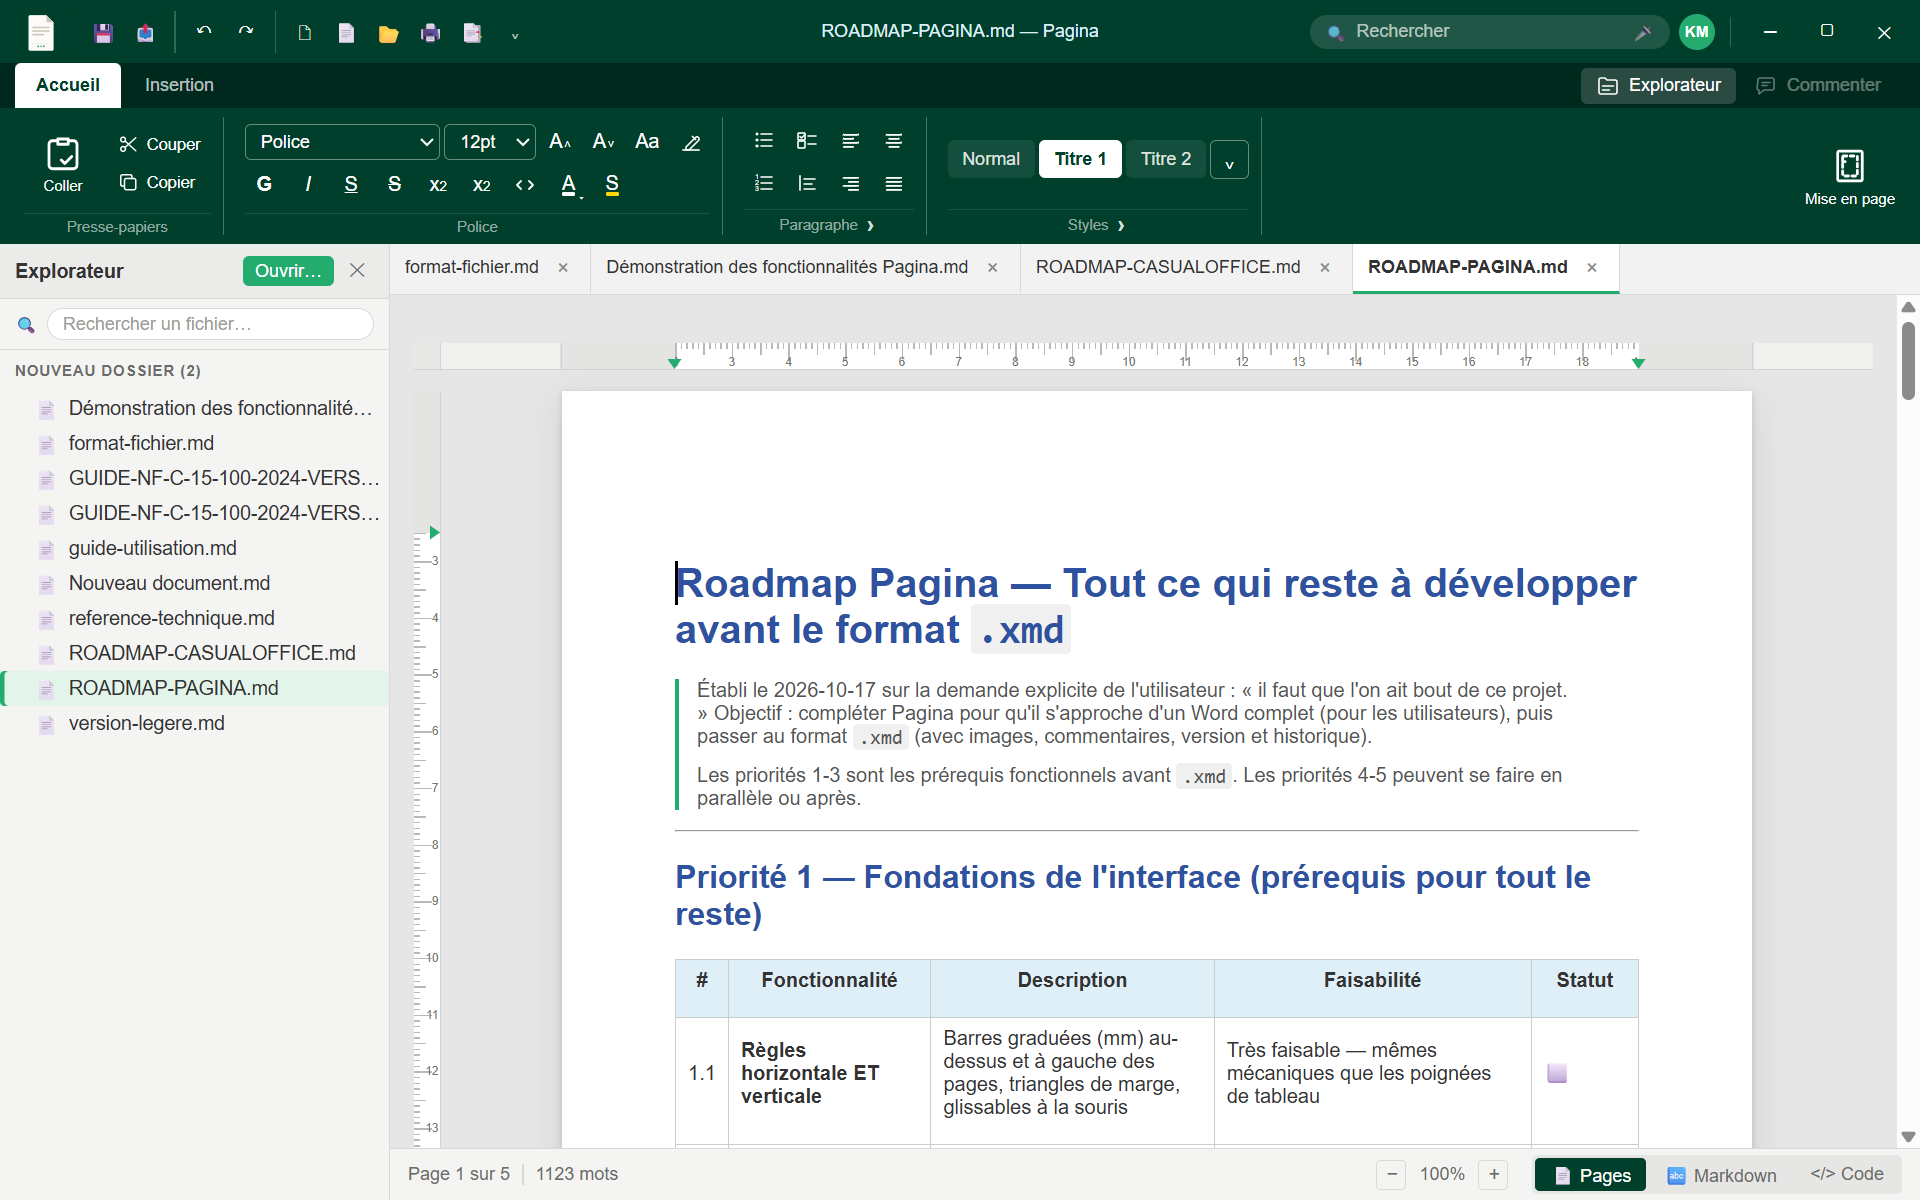
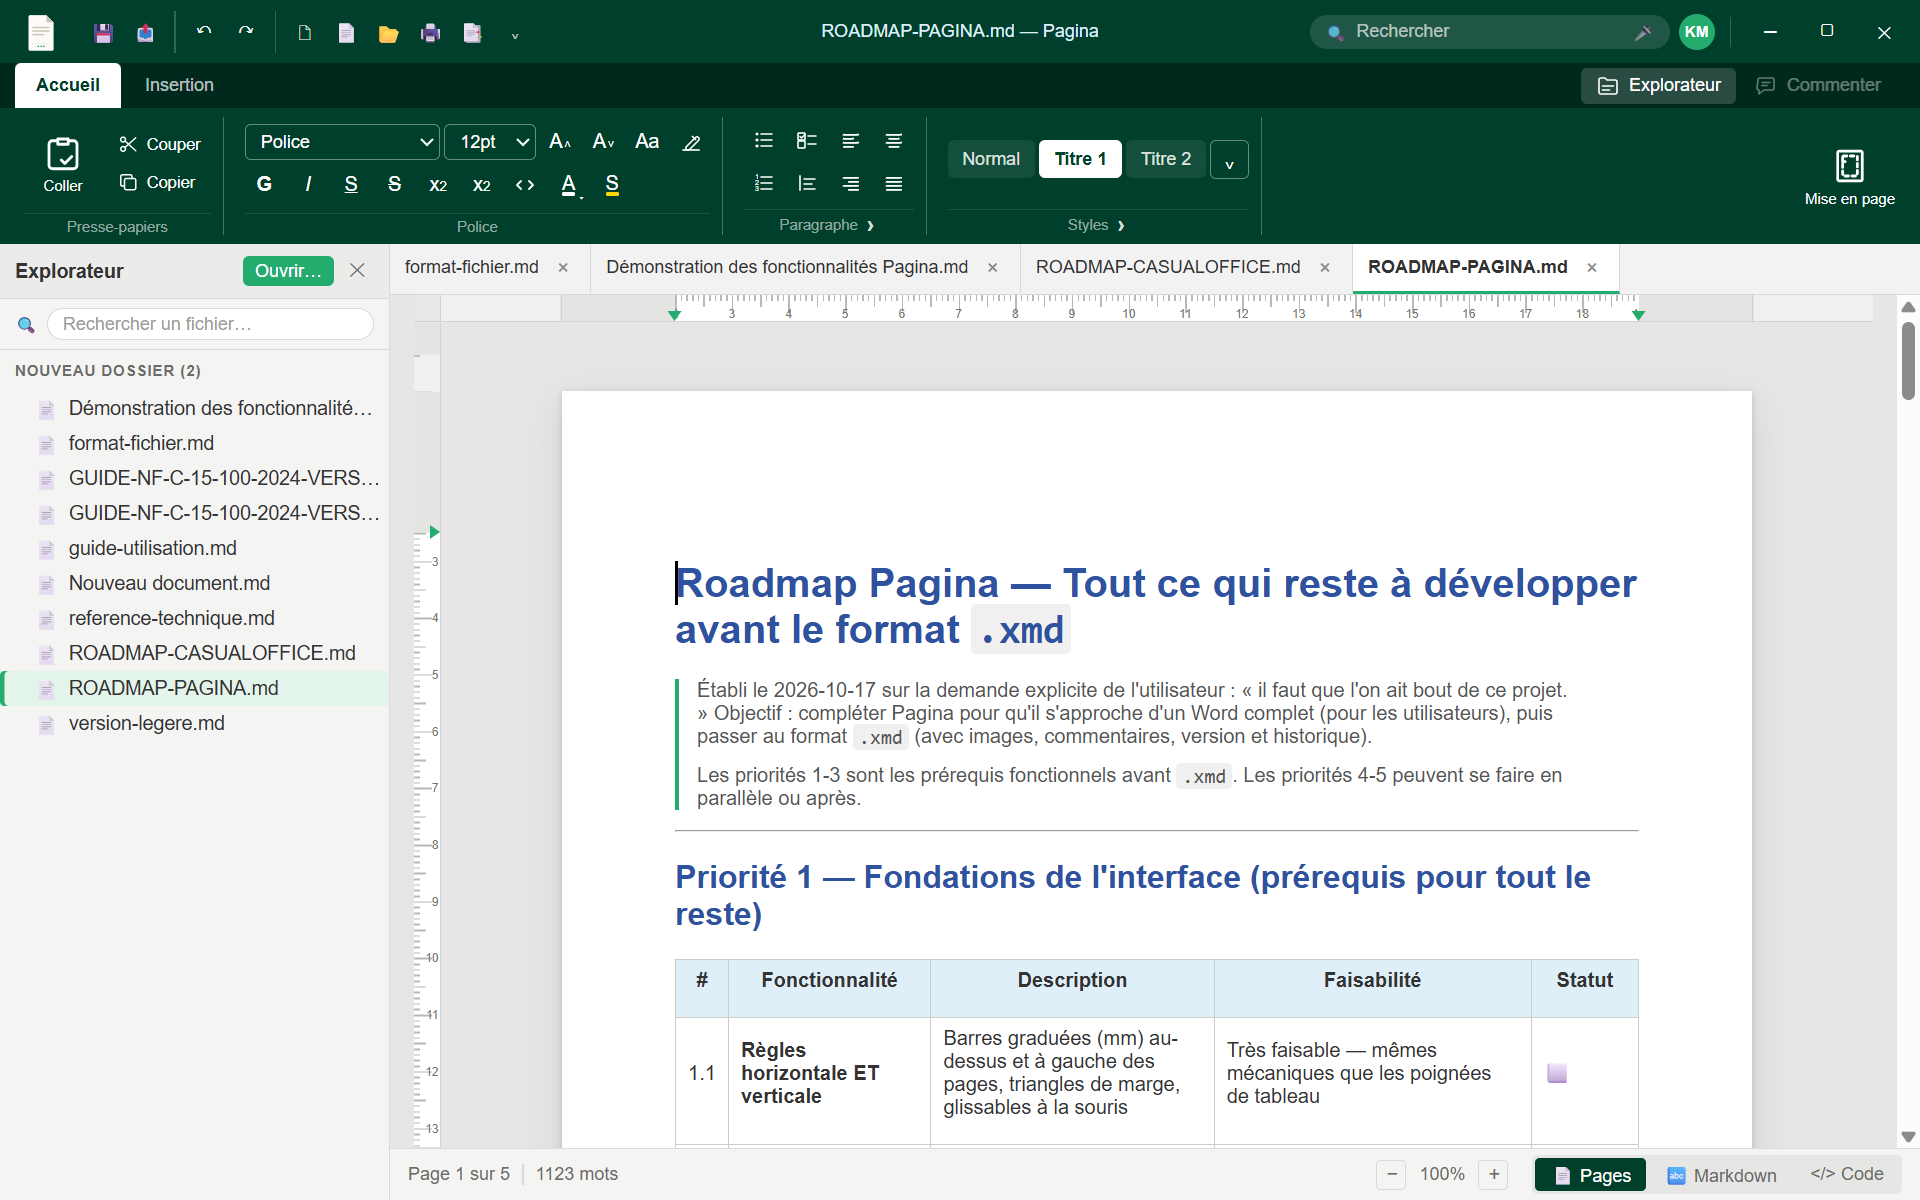
regles: correctifs regle colle en haut + marge basse visible (retour utilisateur)
1. Regle horizontale collee en haut : le padding-top (32px) du
   conteneur scrollable creait une bande grise au-dessus de la regle —
   un margin-top negatif ne servait a rien (le sticky ne tire jamais un
   element vers le haut, il ne fait que l'epingle au defilement).
   Le padding-top du wrap passe a 0, les 32px d'espacement sont rendus
   par le margin-bottom de la regle : la premiere page demarre toujours
   a 65px du haut (geometrie identique, curseur/selection intacts).
   Aucun impact impression (App.css force deja padding: 0).
2. Marge basse de la regle verticale enfin visible : la classe de base
   .xmd-ruler-margin posait top+bottom a 0 ; avec le height inline la
   position etait sur-contrainte et bottom etait ignore — la zone basse
   se collait en HAUT du motif (confondue avec la marge haute).
   top/bottom auto explicites (inline + classe -v).
3. Colonne verticale remontee juste sous la regle horizontale
   (margin-top: -46px), continue des le haut comme Word.

Verifie par Playwright/CDP : gap haut 0px, regle V collee sous la
regle H (1px), zone de marge basse rendue en bas du motif (94.5px sur
A4), alignements inchanges (zone H superposee a la page, motifs V sur
les bords de pages, au scroll 0 et pres du bas de page). 38 tests verts.

Generated by Mistral Vibe.

Changed region(s): [[0.3438, 0.2467, 0.875, 0.3083]]

diff --git a/src/ui/Editor/pagination/Ruler.css b/src/ui/Editor/pagination/Ruler.css
@@ -20,11 +20,17 @@
 /* --- Horizontale : pleine largeur du contenu, 18px, collée en haut.
  * Contient : le COIN (largeur de la règle verticale) puis la zone de page
  * centrée sur la même largeur que .xmd-canvas-frame (alignement sur les
- * pages quel que soit le zoom — c'était le bug « règle décalée/délarge »). */
+ * pages quel que soit le zoom — c'était le bug « règle décalée/délarge »).
+ * Collée en haut SANS marge négative : .xmd-page-wrap n'a plus de
+ * padding-top (voir MarkdownEditor.css) — un margin-top négatif serait de
+ * toute façon neutralisé (le sticky ne « tire » pas un élément vers le
+ * haut, il ne fait que l'épingler au défilement). Le margin-bottom
+ * (46px) rend l'espacement au-dessus de la première page : la page
+ * démarre à 19 + 46 = 65px du haut, comme avant l'arrivée des règles. */
 .xmd-ruler-h {
   height: 18px;
   top: 0;
-  margin-bottom: 14px;
+  margin-bottom: 46px;
   border-bottom: 1px solid #d0d3d4;
   display: flex;
 }
@@ -45,12 +51,17 @@
 }
 
 /* --- Verticale : 18px de large, collée à GAUCHE, sous la règle
- * horizontale (top = 18px + bordure). Sa HAUTEUR est posée par
- * MarkdownEditor (recomputeVRuler : hauteur du viewport moins la règle
- * horizontale) — pas en CSS, elle dépend du conteneur scrollable. */
+ * horizontale (top = 18px + bordure). margin-top NÉGATIF (= margin-bottom
+ * de .xmd-ruler-h) : la remonte JUSTE sous la règle horizontale, la colonne
+ * de règle est continue dès le haut (pas de bande grise intermédiaire) ;
+ * le calage des graduations sur la page est assuré par recomputeVRuler
+ * (MarkdownEditor.tsx), qui mesure les positions RÉELLES — il s'adapte
+ * seul à cette remontée. Sa HAUTEUR est posée par MarkdownEditor
+ * (viewport - règle h) — pas en CSS, elle dépend du conteneur scrollable. */
 .xmd-ruler-v {
   left: 0;
   top: 19px;
+  margin-top: -46px;
   flex: 0 0 auto;
   border-right: 1px solid #d0d3d4;
 }
@@ -135,9 +146,14 @@
   pointer-events: none;
 }
 
+/* Neutralise le top/bottom de la classe de base : la position verticale
+ * des zones de marge verticales est donnée par les styles inline du
+ * composant (top ou bottom + height). */
 .xmd-ruler-margin-v {
   left: 0;
   right: 0;
+  top: auto;
+  bottom: auto;
 }
 
 /* --- Triangles de marge (charte MBEF, comme Word) --- */

diff --git a/src/ui/Editor/pagination/Ruler.tsx b/src/ui/Editor/pagination/Ruler.tsx
@@ -165,9 +165,18 @@ export function VerticalRuler({
                 </span>
               ))}
           </div>
-          {/* Zones grises = marges */}
-          <div className="xmd-ruler-margin xmd-ruler-margin-v" style={{ top: 0, height: `${marginTopPx}px` }} />
-          <div className="xmd-ruler-margin xmd-ruler-margin-v" style={{ bottom: 0, height: `${marginBottomPx}px` }} />
+          {/* Zones grises = marges. `bottom`/`top: auto` explicites : la
+           * classe de base pose top+bottom à 0, et un inline height rendrait
+           * la position sur-contrainte (bottom ignoré → la marge BASSE se
+           * collait en HAUT du motif, bug remonté par l'utilisateur). */}
+          <div
+            className="xmd-ruler-margin xmd-ruler-margin-v"
+            style={{ top: 0, bottom: "auto", height: `${marginTopPx}px` }}
+          />
+          <div
+            className="xmd-ruler-margin xmd-ruler-margin-v"
+            style={{ top: "auto", bottom: 0, height: `${marginBottomPx}px` }}
+          />
           {/* Triangles de marge */}
           <div className="xmd-ruler-marker xmd-ruler-marker-v xmd-ruler-marker-top" style={{ top: `${marginTopPx}px` }} />
           <div

diff --git a/src/ui/Editor/MarkdownEditor.css b/src/ui/Editor/MarkdownEditor.css
@@ -13,7 +13,14 @@
    * center` sur .xmd-page-canvas juste en dessous. */
   overflow-x: auto;
   background: #e6e6e6;
-  padding: 32px 16px;
+  /* PAS de padding-top : la règle horizontale doit être COLLÉE en haut
+   * du viewport des pages, comme Word (retour utilisateur 2026-10-21 :
+   * « la règle n'est pas en haut, il y a un décalage »). Les 32px
+   * d'espacement au-dessus des pages sont rendus par le margin-bottom
+   * de .xmd-ruler-h (Ruler.css) — un padding-top ici décalait la règle
+   * vers le bas, le sticky ne « tirant » jamais un élément vers le haut.
+   * L'impression force déjà padding: 0 sur ce conteneur (App.css). */
+  padding: 0 16px 32px;
   position: relative;
   /* `paintPages.ts` fait un `canvas.replaceChildren(...)` à CHAQUE frappe —
    * tout l'arbre des pages (y compris celles visibles à l'écran) est détruit
